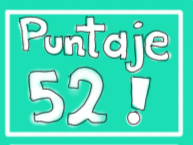
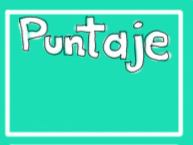
Puntaje fuente

Changed region(s): [[0.1244, 0.4414, 0.5596, 0.8828], [0.6218, 0.5241, 0.8083, 0.8828]]

diff --git a/Proyecto_Final/Flood/src/Flood/SidePanel.java b/Proyecto_Final/Flood/src/Flood/SidePanel.java
@@ -19,62 +19,62 @@ import javax.swing.JPanel;
  * @author macbook
  */
 public class SidePanel extends JPanel implements MouseListener {
-    
+
     //Variable que indica si el mouse intersecta con algún botón
     private boolean bIntersects;
-    
+
     //Objetos Base para los botones del panel
     protected Base basBackMenu;
     private Base basHelp;
     private Base basPause;
     private Base basSound;
-    
+
     //Objetos para las imagenes
     private Image imaImagenLogo;
     private Image imaImagenPuntaje;
     private Image imaImagenNivel;
-    
+
     //Variables booleanas que indican si un botón fue presionado
     private boolean bBackMenu;
     private boolean bHelp;
     private boolean bPause;
     private boolean bSound;
-    
+
     //Variables de posicion del mouse
     int iMouseX;
     int iMouseY;
-    
+
     //Variable que contiene el #de nivel como string, se usa para pintar el nivel
     private String sNivel;
-    
+
     //The Flood Game instance
     private Flood tarGame;
-    
+
     //Font a usar
     private Font fonFuentel;
-    
-   
+
+
 
     public SidePanel(Flood floodGame) throws FontFormatException, IOException {
-        
+
         this.tarGame = floodGame;//instancia de flood
         initVars();
         creaBases();
         crearImagenes();
         addMouseListener(this);
-        
-        
-        this.fonFuentel = Font.createFont(Font.TRUETYPE_FONT, new FileInputStream("./src/Flood/CustomL.ttf"));
-        this.fonFuentel = this.fonFuentel.deriveFont(25F);
 
-       // setPreferredSize(new Dimension(floodGame.iWidth /2, floodGame.iHeight));
-        setPreferredSize(new Dimension(300, floodGame.iHeight));        
-        
+
+        this.fonFuentel = Font.createFont(Font.TRUETYPE_FONT, new FileInputStream("./src/Flood/Score.ttf"));
+        this.fonFuentel = this.fonFuentel.deriveFont(40F);
+
+        // setPreferredSize(new Dimension(floodGame.iWidth /2, floodGame.iHeight));
+        setPreferredSize(new Dimension(228, floodGame.iHeight));
+
     }
     /**initvars
      inicializa las variables
      **/
-    public void initVars(){
+    public void initVars() {
         //booleanas de botones
         bBackMenu = false;
         bHelp = false;
@@ -83,125 +83,127 @@ public class SidePanel extends JPanel implements MouseListener {
         //indica el nivel
         sNivel = Integer.toString(tarGame.iNivel);
     }
-    
+
     /* crearImagenes
         crea las imagenes base del side panel
     */
-    public void crearImagenes(){
+    public void crearImagenes() {
         // Crear la imagen de fondo.
         imaImagenLogo = Toolkit.getDefaultToolkit().getImage(this.getClass()
-                         .getResource("Images/sidePanel/logo.png"));
-        
+                        .getResource("Images/sidePanel/logo.png"));
+
         imaImagenPuntaje = Toolkit.getDefaultToolkit().getImage(this.getClass()
-                         .getResource("Images/sidePanel/puntaje.png"));
-                         
+                           .getResource("Images/sidePanel/puntaje.png"));
+
         sNivel = "1";
         imaImagenNivel = Toolkit.getDefaultToolkit().getImage(this.getClass()
-                         .getResource("Images/sidePanel/nivel"+sNivel+".png"));
-        
+                         .getResource("Images/sidePanel/nivel" + sNivel + ".png"));
+
     }
-    
+
     /* creaBases
         crea los objetos base del side panel, botones
     */
-    public void creaBases(){
-   
+    public void creaBases() {
+
         basBackMenu = new Base(640, 540, Toolkit.getDefaultToolkit()
-               .getImage(this.getClass().getResource("Images/sidePanel/backAlMenu.png")));
-        
-        
+                               .getImage(this.getClass().getResource("Images/sidePanel/backAlMenu.png")));
+
+
         basSound = new Base(640, 650, Toolkit.getDefaultToolkit()
-               .getImage(this.getClass().getResource("Images/sidePanel/soundON.png")));
-        
-        
-        basPause = new Base(basSound.getX()+basSound.getAncho(), 650, Toolkit.getDefaultToolkit()
-               .getImage(this.getClass().getResource("Images/sidePanel/pause.png")));
-        
-        basHelp = new Base(basPause.getX()+basPause.getAncho(), 650, Toolkit.getDefaultToolkit()
-               .getImage(this.getClass().getResource("Images/sidePanel/help.png")));
-        
+                            .getImage(this.getClass().getResource("Images/sidePanel/soundON.png")));
+
+
+        basPause = new Base(basSound.getX() + basSound.getAncho(), 650, Toolkit.getDefaultToolkit()
+                            .getImage(this.getClass().getResource("Images/sidePanel/pause.png")));
+
+        basHelp = new Base(basPause.getX() + basPause.getAncho(), 650, Toolkit.getDefaultToolkit()
+                           .getImage(this.getClass().getResource("Images/sidePanel/help.png")));
+
     }
-    
-    public void paintComponent(Graphics graGrafico){
+
+    public void paintComponent(Graphics graGrafico) {
         //super.paintComponent(graGrafico);
-        
-        if (imaImagenLogo != null && imaImagenPuntaje != null &&   
+
+        if (imaImagenLogo != null && imaImagenPuntaje != null &&
                 imaImagenNivel != null) {
-        //pinta imagenes
-            graGrafico.drawImage(imaImagenLogo,640, 50, 203, 70, this);
-            graGrafico.drawImage(imaImagenPuntaje,640, 150, 193, 145, this);
+            //pinta imagenes
+            graGrafico.drawImage(imaImagenLogo, 640, 50, 203, 70, this);
+            graGrafico.drawImage(imaImagenPuntaje, 640, 150, 193, 145, this);
+
+            Color colAux = new Color(255, 255, 255);
+            graGrafico.setColor(colAux);
             graGrafico.setFont(fonFuentel);
-            graGrafico.drawString(Integer.toString(tarGame.iPuntos), 650, 220);
-            
-            graGrafico.drawImage(imaImagenNivel,640, 350, 173, 82, this);
+            graGrafico.drawString(Integer.toString(tarGame.iPuntos), 660, 250);
+
+
+
+
+
+            graGrafico.drawImage(imaImagenNivel, 640, 350, 173, 82, this);
         }
-    
-        if (!bBackMenu && !bHelp && !bPause && basBackMenu != null && 
-                basHelp !=null && basPause != null && basSound != null) {
+
+        if (!bBackMenu && !bHelp && !bPause && basBackMenu != null &&
+                basHelp != null && basPause != null && basSound != null) {
             // Dibujar el objeto de menu
             basBackMenu.paint(graGrafico, this);
             basHelp.paint(graGrafico, this);
             basPause.paint(graGrafico, this);
             basSound.paint(graGrafico, this);
-        }
-        else {
+        } else {
             //Da un mensaje mientras se carga el dibujo
             graGrafico.drawString("No se cargo la imagen..", 20, 20);
         }
     }
-    
+
     /**manejaSonido
      * maneja el sonido del juego
      */
-    public void manejaSonido(){
-        if (bSound){
+    public void manejaSonido() {
+        if (bSound) {
             //cambio de imagen
             basSound.setImagen(Toolkit.getDefaultToolkit()
-               .getImage(this.getClass().getResource("Images/sidePanel/soundON.png")));
+                               .getImage(this.getClass().getResource("Images/sidePanel/soundON.png")));
             //AQUI PONER EL SOUND.PLAY()
-        }
-        else {
+        } else {
             //cambio de imagen
             basSound.setImagen(Toolkit.getDefaultToolkit()
-               .getImage(this.getClass().getResource("Images/sidePanel/soundOFF.png")));
+                               .getImage(this.getClass().getResource("Images/sidePanel/soundOFF.png")));
             //AQUI PONER EL SOUND.PAUSE()
         }
     }
-    
+
     public void cambioNivel() {
         //indica el nivel
         sNivel = Integer.toString(tarGame.iNivel);
-        
+
         //cambiar imagen a desplegar
         imaImagenNivel = Toolkit.getDefaultToolkit().getImage(this.getClass()
-                         .getResource("Images/sidePanel/nivel"+sNivel+".png"));
+                         .getResource("Images/sidePanel/nivel" + sNivel + ".png"));
     }
-    
+
     public void mouseClicked(MouseEvent mouEvent) {
-        
+
         System.out.println("HOLA");
         //actualiza posiciones del mouse
         iMouseX = mouEvent.getX();
         iMouseY = mouEvent.getY();
-        
+
         //checa si el jugador a presionado algun boton del panel
-        if (basHelp.intersects(iMouseX, iMouseY)){
+        if (basHelp.intersects(iMouseX, iMouseY)) {
             bHelp = true;//prende help
             bBackMenu = false;//apaga las demás
-        }
-        else if ( basPause.intersects(iMouseX, iMouseY) ) {
+        } else if ( basPause.intersects(iMouseX, iMouseY) ) {
             bPause = !bPause;//niega pause
-        }
-        else if (basSound.intersects(iMouseX, iMouseY)) {
+        } else if (basSound.intersects(iMouseX, iMouseY)) {
             System.out.println();
             bSound = !bSound;//niega sound
             manejaSonido();
-        }
-        else if (basBackMenu.intersects(iMouseX, iMouseY)){
+        } else if (basBackMenu.intersects(iMouseX, iMouseY)) {
             bBackMenu = true;
             bHelp = false;//apaga las demás
         }
-        
+
     }
 
     public void mousePressed(MouseEvent e) {
@@ -215,6 +217,6 @@ public class SidePanel extends JPanel implements MouseListener {
 
     public void mouseExited(MouseEvent e) {
     }
-    
-    
+
+
 }

diff --git a/Proyecto_Final/Flood/src/Flood/Flood.java b/Proyecto_Final/Flood/src/Flood/Flood.java
@@ -685,7 +685,7 @@ public class Flood extends JFrame implements Runnable, MouseListener, KeyListene
                         if (disRespuesta.getSize() == sResEsperada.length()) {
                             // Sumar los puntos
                             iPuntos += cuaAux.getValor();
-                            
+
                             // Dar de baja el cuadro
                             cuaAux.setActive(false);
 
@@ -702,6 +702,10 @@ public class Flood extends JFrame implements Runnable, MouseListener, KeyListene
                             }
                             cambioCuadro();
                         }
+                    }
+                    // Caracter equivocado
+                    else {
+                        iPuntos -= (int)(cuaAux.getValor() / sResEsperadaCopy.length());
                     }
                 }
             }
